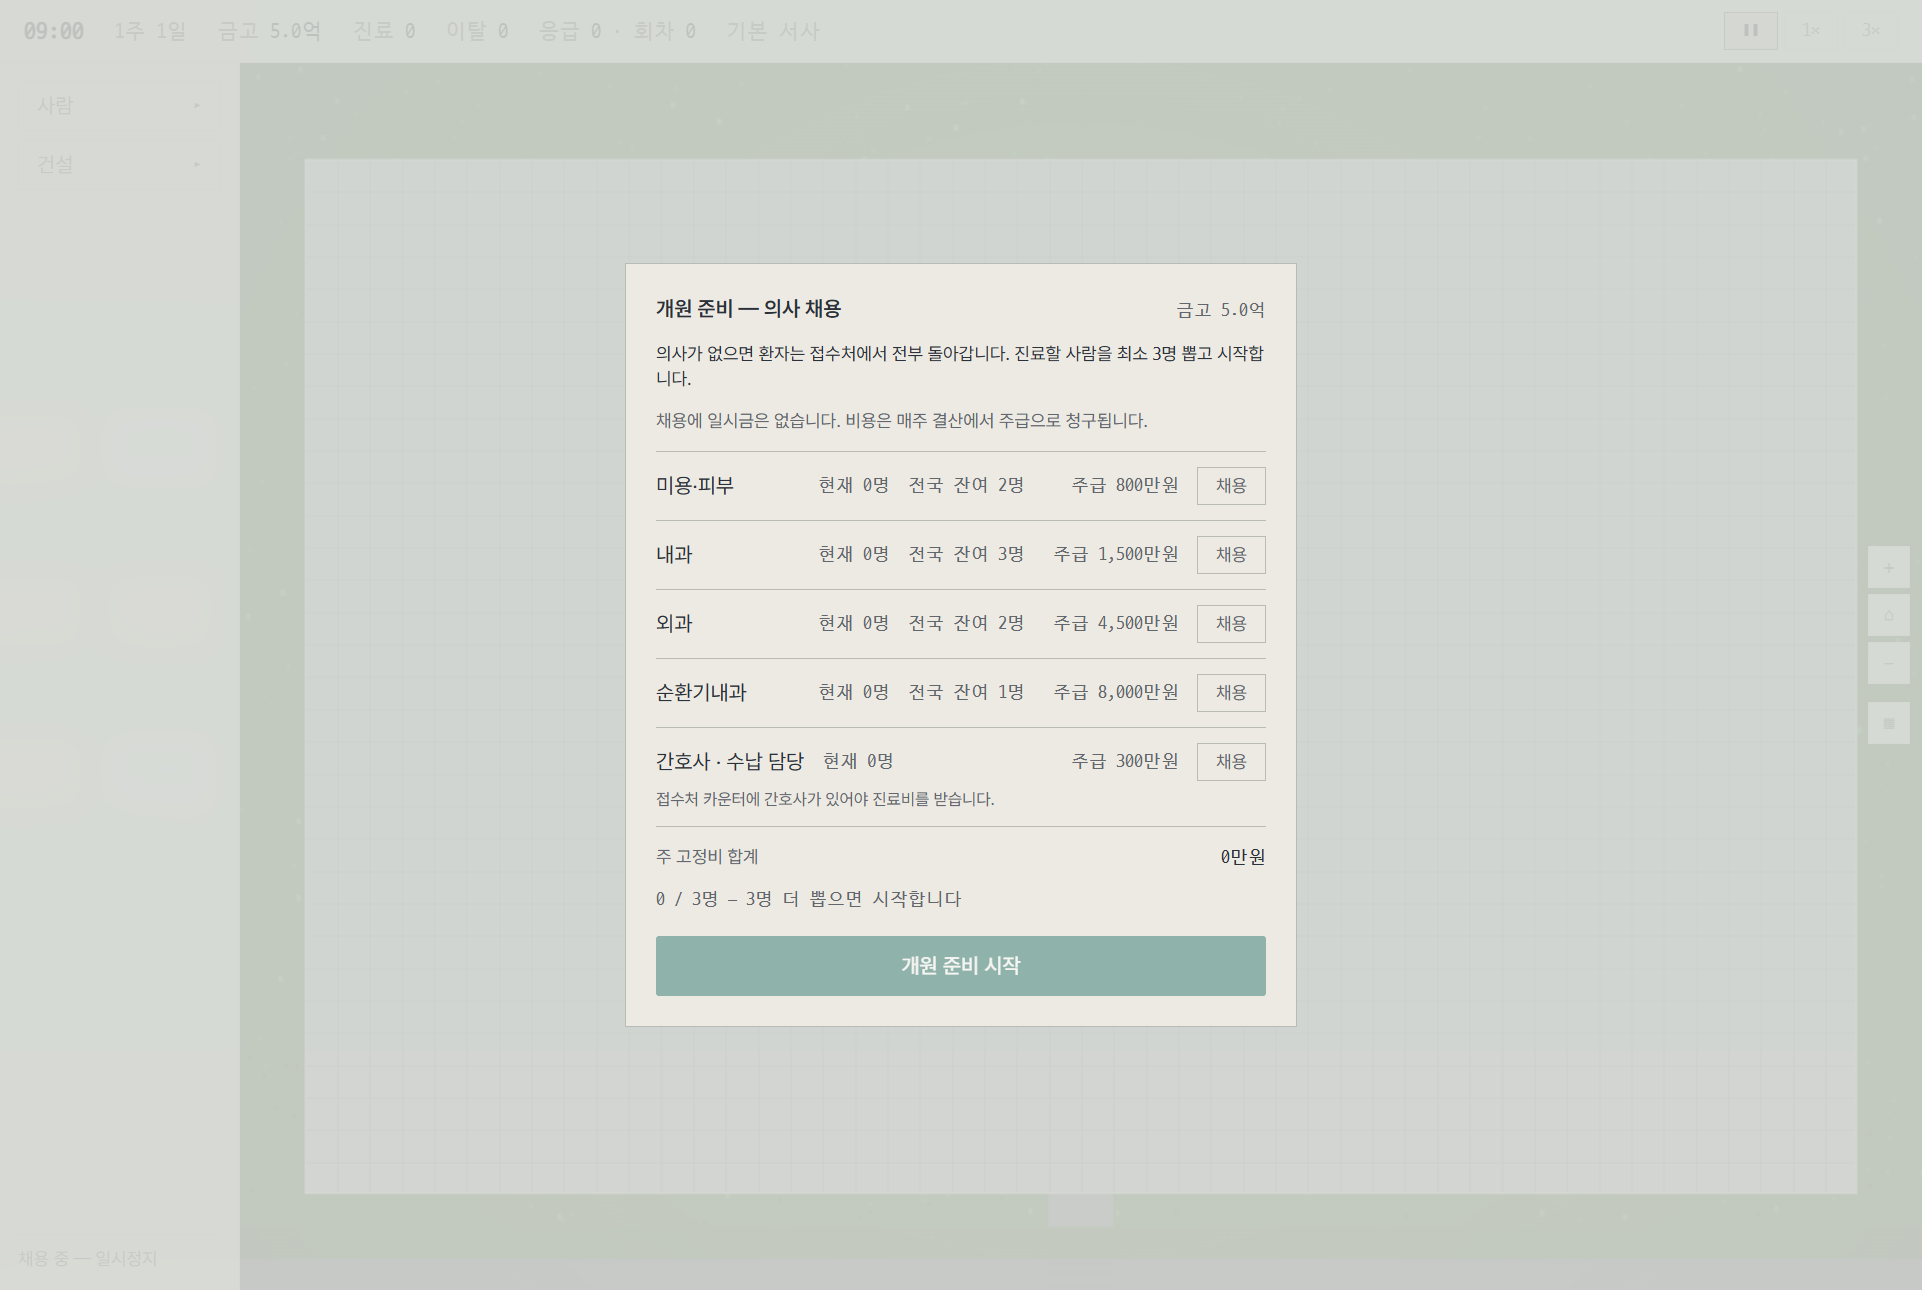
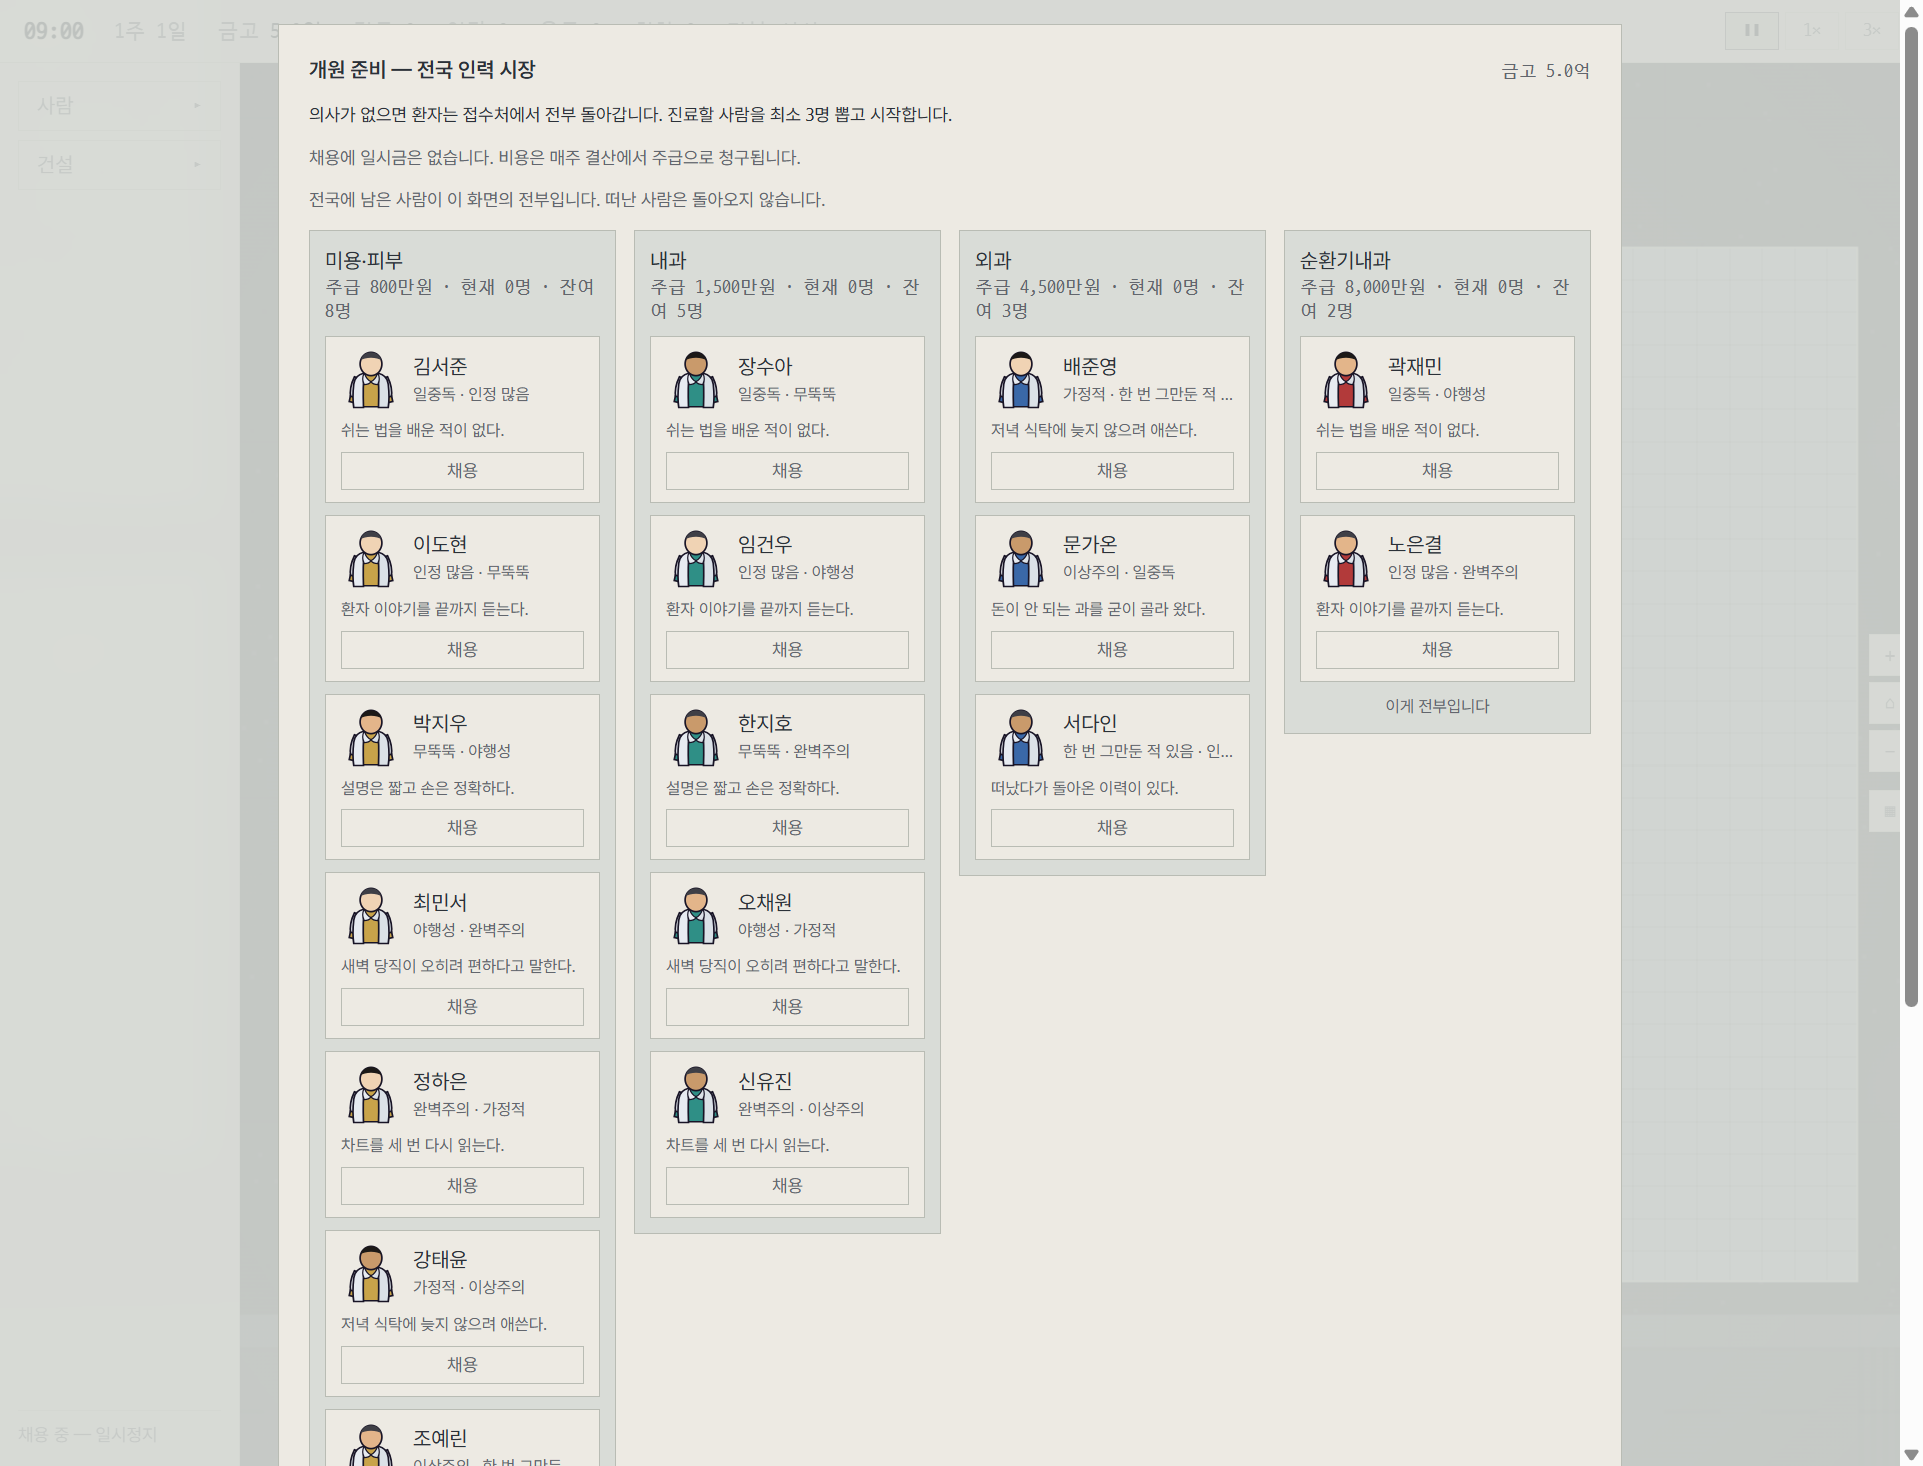
docs: 제출물 ③을 인력 시장 화면에 정합 + 채용 버튼 접근성 이름
채용 패널이 「전국 잔여 N명」 목록에서 과별 후보 카드 4열로 바뀌었는데(aaead86)
제출물 ③이 옛 화면을 서술한 채 남았다. 직전 머지 #185가 정확히 이 드리프트를
잡은 커밋인데 이 브랜치가 다시 낡게 만든 자리다.

- game-intro.md 코어 루프의 채용 줄 · 3-3 본문 · 절 제목을 새 화면 기준으로.
  「뽑힌 의사는 이름과 특성을 달고 온다」는 지금 거짓이다 — 뽑기 전부터 카드에
  적혀 있다(누구를 태울지 고르는 것이지 통보받는 것이 아니다). 「이게 전부입니다」·
  소진 문구도 화면에 있으므로 함께 적었다.
- 스크린샷 03을 본편 빌드에서 재캡처. 제목·4열·카드·소진 안내가 실제로 담겼다
  (1923x1466 · 세로는 다이얼로그가 뷰포트보다 길어 스크롤바가 함께 찍힌다).
- HirePanel 카드의 채용 버튼에 aria-label — 카드 여덟 장의 버튼 이름이 전부
  「채용」이라 스크린리더 버튼 목록에서 구별이 안 됐다. 보이는 라벨은 그대로다.
- 계획 문서 머리에 정정 한 줄 — hireDoctor의 slot은 필수가 됐다(9eaade0).
  본문 Task 2의 slot? 서술은 초안 스냅샷임을 명시.

Skills-used: none

diff --git a/src/components/HirePanel.tsx b/src/components/HirePanel.tsx
@@ -142,8 +142,12 @@ export default function HirePanel({
                     {/* 사연 한 줄 — 첫 특성의 story를 **그대로** 쓴다. 이름·과를 끼워 넣지 않는
                         것이 traits.ts의 계약이다(보간값 뒤 조사 분기 · T-094). */}
                     <p className="text-[11px] text-on-desk-muted">{TRAITS[cand.traits[0]].story}</p>
+                    {/* 보이는 라벨은 「채용」 하나로 족하다(카드 안에 이미 사람이 있다) — 그러나
+                        접근성 이름엔 사람이 실려야 한다: 스크린리더의 버튼 목록에서는 카드 맥락이
+                        사라져 「채용」 여덟 개만 남는다. */}
                     <button
                       type="button"
+                      aria-label={`${cand.name} 채용`}
                       onClick={() => onHire(cand.dept, cand.slot)}
                       className="border border-frame px-3 py-1 text-xs text-on-desk-muted transition-colors hover:border-on-desk-muted hover:text-on-desk focus-visible:outline-none focus-visible:ring-2 focus-visible:ring-on-desk-muted"
                     >

diff --git a/docs/submission/game-intro.md b/docs/submission/game-intro.md
@@ -70,7 +70,8 @@ tags:
   │            (진료실은 과를 골라야 칠해진다 · 최소 크기 없음 · 벽은 선택)
   │            벽 30 · 문 50 · 책상·카운터 100 · 의자 20 · 침대 300만원(개당)
   │            용도 지정은 무료 · 철거는 50% 환불 · 드래그하는 동안 시간이 멈춘다
-  │  채용 ── 과별로 의사를 뽑는다. 「전국 잔여」가 붙어 있고, 그 숫자는 줄기만 한다
+  │  채용 ── 「전국 인력 시장」에 과별로 남은 사람이 카드로 펴진다(이름·특성 둘·사연)
+  │            뽑으면 그 카드가 목록에서 사라지고, 목록은 줄기만 한다
   │            간호사도 뽑는다 — 접수처 카운터에서 진료비를 걷고,
   │            인원이 ⌈의사 수 ÷ 2⌉에 닿는지가 간호등급을 가른다(주간 진료 수익 ±10%)
   │  인사 ── 의사마다 진료·응급·휴식 세 축의 우선순위를 0~3으로 토글
@@ -144,13 +145,13 @@ tags:
 
 > 이 화면이 이 게임에서 가장 조용한 함정이다. 화면은 **어느 과가 돈이 되는지 알려주지 않는다.** 알려주는 것은 건설 단가와 **주급**뿐이다 — 채용에 일시금은 없고(그 사실도 화면이 말한다) 대가는 매주 결산에서 온다. 어느 과가 얼마를 버는지 — 수가 — 는 어디에도 없다. 결말의 모든 숫자는 여기서 이미 정해진다.
 
-### 3-3. 사람을 뽑는다 — 그리고 그 숫자는 줄기만 한다
+### 3-3. 사람을 뽑는다 — 그리고 그 명단은 줄기만 한다
 
 ![채용](assets/03-hire-panel.png)
 
-개원 전에 **의사 3명**을 채워야 판이 굴러간다. [채용]을 누르면 과 목록이 뜨고, 각 과 옆에 **전국 잔여** 인원이 붙어 있다 — 그 숫자는 **고른 지역이 정한다.** 대도시 도심이면 미용 8 · 내과 5 · 외과 3 · **순환기 2**(총 18명)이지만, 신도시는 외과·순환기가 한 명씩 줄어 16명, 지방 소도시는 미용이 4로 깎여 10명, 농어촌은 미용이 2까지 내려가 **8명**이다. 어느 지역이든 한 판 전체에서 뽑을 수 있는 총량이 그것뿐이고, 사직한 사람은 **돌아오지 않는다.**
+개원 전에 **의사 3명**을 채워야 판이 굴러간다. [채용]을 누르면 **전국 인력 시장**이 열린다 — 과별 네 열에 지금 전국에 남은 사람이 **한 장씩 카드로 전부 펴져 있다.** 열 머리의 **잔여** 인원은 **고른 지역이 정한다.** 대도시 도심이면 미용 8 · 내과 5 · 외과 3 · **순환기 2**(총 18명)이지만, 신도시는 외과·순환기가 한 명씩 줄어 16명, 지방 소도시는 미용이 4로 깎여 10명, 농어촌은 미용이 2까지 내려가 **8명**이다. 어느 지역이든 한 판 전체에서 뽑을 수 있는 총량이 그것뿐이고, 사직한 사람은 **돌아오지 않는다.** 남은 카드가 두 장 이하로 줄면 목록 끝에 「이게 전부입니다」가 서고, 다 빠진 과에는 「전국에 남은 (그 과) 의사가 없습니다」만 남는다.
 
-뽑힌 의사는 **이름과 특성 두 개**를 달고 온다 — 「일중독 · 이상주의」, 「가정적 · 한 번 그만둔 적 있음」처럼. 특성에는 **수치 효과가 없다.** 그건 사직 편지와 연출문의 재료다: 떠나는 것이 「내과 1명」이 아니라 **사람 하나**임이 드러나야 하기 때문이다.
+카드 한 장이 한 사람이다 — **초상 · 이름 · 특성 두 개 · 사연 한 줄**. 「일중독 · 이상주의」, 「가정적 · 한 번 그만둔 적 있음」처럼 붙고, **뽑기 전부터 보인다**: 누구를 태울지 고르는 것이지 뽑고 나서 통보받는 것이 아니다. 카드에서 본 얼굴이 부지에 그대로 선다. 특성에는 **수치 효과가 없다.** 그건 사직 편지와 연출문의 재료다: 떠나는 것이 「내과 1명」이 아니라 **사람 하나**임이 드러나야 하기 때문이다.
 
 의사만 뽑는 것이 아니다. **간호사**(주급 300만원 · 과 없음)를 뽑아야 접수처 카운터에서 진료비가 걷히고, 간호 인력 수는 주간 결산에서 **등급으로 환산돼 수가를 ±10% 가감산**한다 — 기준은 의사 2명당 간호사 1명이다. 여기서도 화면은 어느 쪽이 이득인지 알려주지 않는다: 미달 감산이 간호사 주급보다 쌀 수도, 비쌀 수도 있고 그건 **병원이 얼마나 버는가**가 정한다.
 

diff --git a/docs/superpowers/plans/2026-08-03-talent-market.md b/docs/superpowers/plans/2026-08-03-talent-market.md
@@ -7,6 +7,8 @@ tags:
 
 > **For agentic workers:** REQUIRED SUB-SKILL: Use superpowers:subagent-driven-development (recommended) or superpowers:executing-plans to implement this plan task-by-task. Steps use checkbox (`- [ ]`) syntax for tracking.
 
+> ⚠ 구현 시 정정: hireDoctor의 slot은 필수가 됐다(초안의 optional 폴백 기각 — 근거는 스펙 §2). 본문 Task 2의 slot? 서술은 초안 스냅샷이다.
+
 **Goal:** 채용 패널의 "전국 잔여 N명" 숫자를, 개원 시점부터 이름·특성·초상이 정해진 **후보 카드**로 바꾼다(풀 숫자·밸런스 무변).
 
 **Architecture:** ① 새 leaf-급 모듈 `src/sim/candidate.ts`가 `(과, 슬롯) → 사람`을 순수 함수로 제공(RNG 0). ② `SimWorld.hiredSlots`가 소비된 슬롯을 기록하고 `hireDoctor(w, dept, slot?)`가 특정 후보를 소비. ③ `HirePanel`을 과별 4열 카드 그리드로 대개편, 초상 키를 이름으로 통일해 카드=맵 얼굴 일치.
